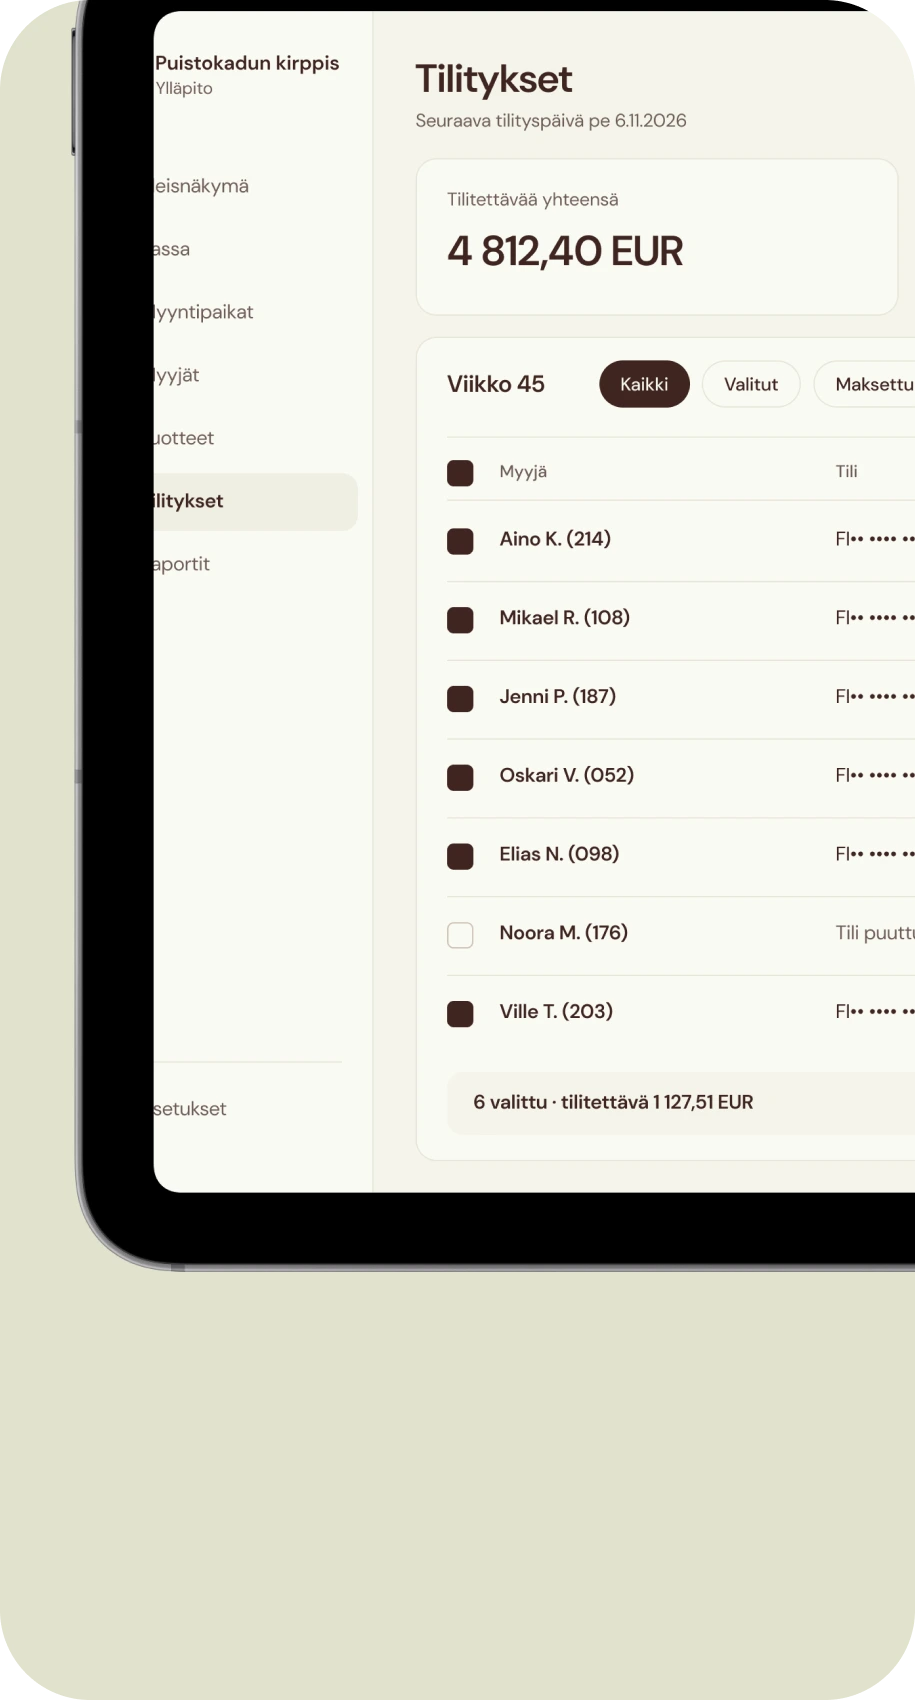
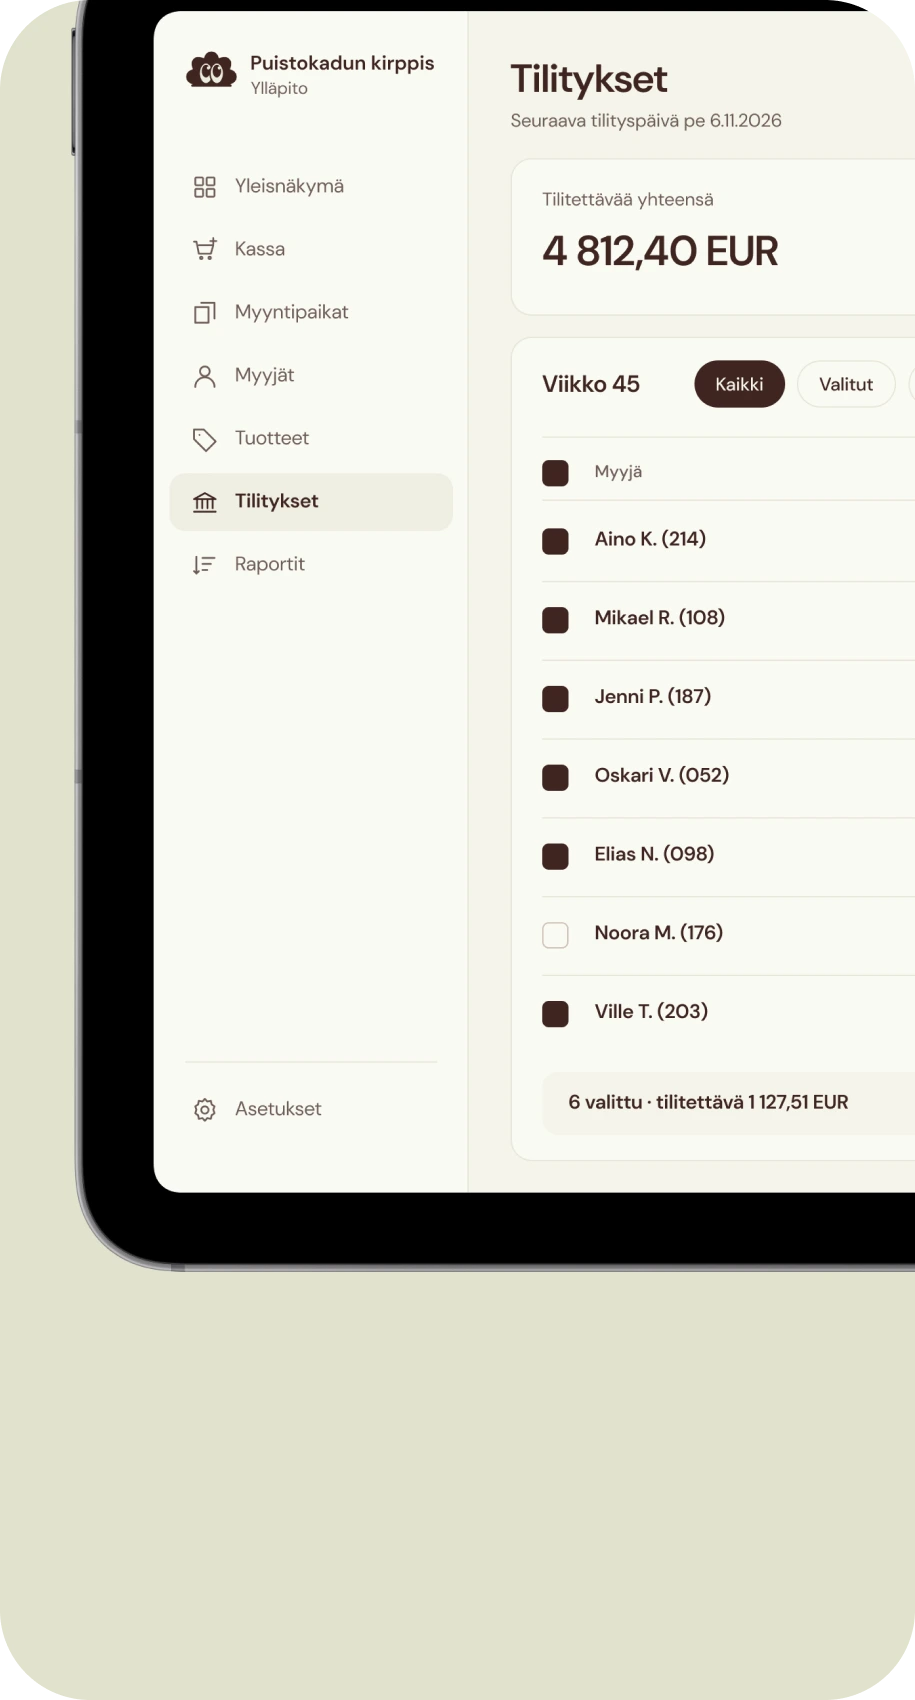
Applen kehykset kaikkiin puhelimiin (työkalukarusellin tarrat, heron kollaasi), tablettinäkymät ankkuroitu vasemmalle
Claude-Session: https://claude.ai/code/session_01GFdz22wxCZYfy3LenkEfZr

diff --git a/resella.html b/resella.html
@@ -1122,7 +1122,7 @@ section.fd{background:var(--blue)}
     <p class="m-lead c">Kassa, tilitykset ja uudet ostajat yhdessä järjestelmässä. Ostajat löytävät tuotteesi appista, joka julkaistaan 2027.</p>
     <a class="m-pill" href="mailto:hei@resella.fi?subject=Demovaraus">Varaa demo</a>
   </div>
-  <div class="m-col m-col--hero" data-col="assets/m/hero3.webp,assets/m/hero4.webp,assets/m/end3.webp,assets/m/end5.webp,assets/m/hero6.webp,assets/m/hero7.webp,assets/m/hero1.webp"></div>
+  <div class="m-col m-col--hero" data-col="assets/m/hero3.webp,assets/m/hero4.webp,assets/m/end3.webp,assets/m/end5.webp,assets/m/hero6.webp?v=8,assets/m/hero7.webp,assets/m/hero1.webp"></div>
 </section>
 
 <section class="m-sec" id="m-ominaisuudet">
@@ -1141,11 +1141,11 @@ section.fd{background:var(--blue)}
 <section class="m-sec m-sec--flush" id="m-vaihto">
   <div class="m-car m-car--slides" data-car>
     <figure class="m-sl"><img src="assets/m/sl1.webp?v=2" alt=""><div class="m-sl-top"><h3 class="m-sl-h">Helpotusta vaihtoon</h3><p>Vaihto hoituu ilman, että kirppis menee kiinni.</p></div><figcaption><h3>Esittely</h3><p>Aloitetaan 30 minuutin demolla, jossa näet oman kirppiksesi Resellassa.</p></figcaption></figure>
-    <figure class="m-sl m-sl--light" style="background:#C5D0D3"><img src="assets/m/sb2.webp?v=3" alt="" loading="lazy"><figcaption><h3>Määritys</h3><p>Rakennamme järjestelmän kirppiksesi näköiseksi: pöydät, hinnat, provisio ja oma ilme.</p></figcaption></figure>
+    <figure class="m-sl m-sl--light" style="background:#C5D0D3"><img src="assets/m/sb2.webp?v=4" alt="" loading="lazy"><figcaption><h3>Määritys</h3><p>Rakennamme järjestelmän kirppiksesi näköiseksi: pöydät, hinnat, provisio ja oma ilme.</p></figcaption></figure>
     <figure class="m-sl"><img src="assets/m/sl3.webp?v=1" alt="" loading="lazy"><figcaption><h3>Asennus</h3><p>Tuomme kassan ja laitteet paikan päälle ja asennamme ne valmiiksi.</p></figcaption></figure>
     <figure class="m-sl m-sl--vid"><div class="m-pad"><div class="m-scr"><img src="assets/m/koulutus-ss.webp?v=1" alt="Opetusvideo: kassan käyttö" loading="lazy"></div><div class="m-pl"><div class="m-pl-b"><span class="m-pl-i" aria-hidden="true"></span><span class="m-pl-bar"><i style="width:38%"></i></span><span class="m-pl-time">0:08</span></div></div></div><figcaption><h3>Koulutus</h3><p>Käymme kassan läpi sinun ja henkilökuntasi kanssa.</p></figcaption></figure>
     <figure class="m-sl"><img src="assets/m/sl5.webp?v=1" alt="" loading="lazy"><figcaption><h3>Ensimmäinen myynti</h3><p>Olemme paikalla, kun ensimmäiset tuotteet myydään. Et jää yksin.</p></figcaption></figure>
-    <figure class="m-sl m-sl--light" style="background:#E1E2CD"><img src="assets/m/sb6.webp?v=3" alt="" loading="lazy"><figcaption><h3>Tilitykset</h3><p>Käymme ensimmäiset tilitykset läpi yhdessä.</p></figcaption></figure>
+    <figure class="m-sl m-sl--light" style="background:#E1E2CD"><img src="assets/m/sb6.webp?v=4" alt="" loading="lazy"><figcaption><h3>Tilitykset</h3><p>Käymme ensimmäiset tilitykset läpi yhdessä.</p></figcaption></figure>
   </div>
 </section>
 
@@ -1353,7 +1353,7 @@ section.fd{background:var(--blue)}
   <div class="caro-track" id="caroTrack">
     <article class="caro-card c-color" style="--cc:var(--blue);--ct:var(--ink)">
       <div class="cc-body"><h3>Toimitukset</h3><p>Ostaja tilaa kotiin ja näkee, missä paketti menee.</p></div>
-    <img class="cc-tarra" src="assets/tarrat/karuselli/kassa-puhelin.webp?v=21" alt="Paketti matkalla -näkymä puhelimessa" loading="lazy" style="left:15.73%;top:39.47%;width:69.83%">
+    <img class="cc-tarra" src="assets/tarrat/karuselli/kassa-puhelin.webp?v=22" alt="Paketti matkalla -näkymä puhelimessa" loading="lazy" style="left:15.73%;top:39.47%;width:69.83%">
     </article>
     <article class="caro-card c-img">
       <img src="assets/kuvat/04_loydot_tuotteet/01_takki_esittely.jpg" alt="Takki esillä kirpputorilla" loading="lazy">
@@ -1385,7 +1385,7 @@ section.fd{background:var(--blue)}
     </article>
     <article class="caro-card c-color" style="--cc:var(--blue);--ct:var(--ink)">
       <div class="cc-body"><h3>Kuluttaja-appi</h3><p>Ostajat löytävät tuotteesi appista ja tulevat hakemaan.</p></div>
-    <img class="cc-tarra" src="assets/tarrat/karuselli/tarrat-puhelin.webp?v=21" alt="Sovelluksen kotinäkymä puhelimessa" loading="lazy" style="left:15.73%;top:39.47%;width:69.83%">
+    <img class="cc-tarra" src="assets/tarrat/karuselli/tarrat-puhelin.webp?v=22" alt="Sovelluksen kotinäkymä puhelimessa" loading="lazy" style="left:15.73%;top:39.47%;width:69.83%">
     </article>
     <article class="caro-card c-img">
       <img src="assets/kuvat/02_kassa_maksu/07_hintalappu_neule.jpg" alt="Hintalappu neuleessa" loading="lazy">
